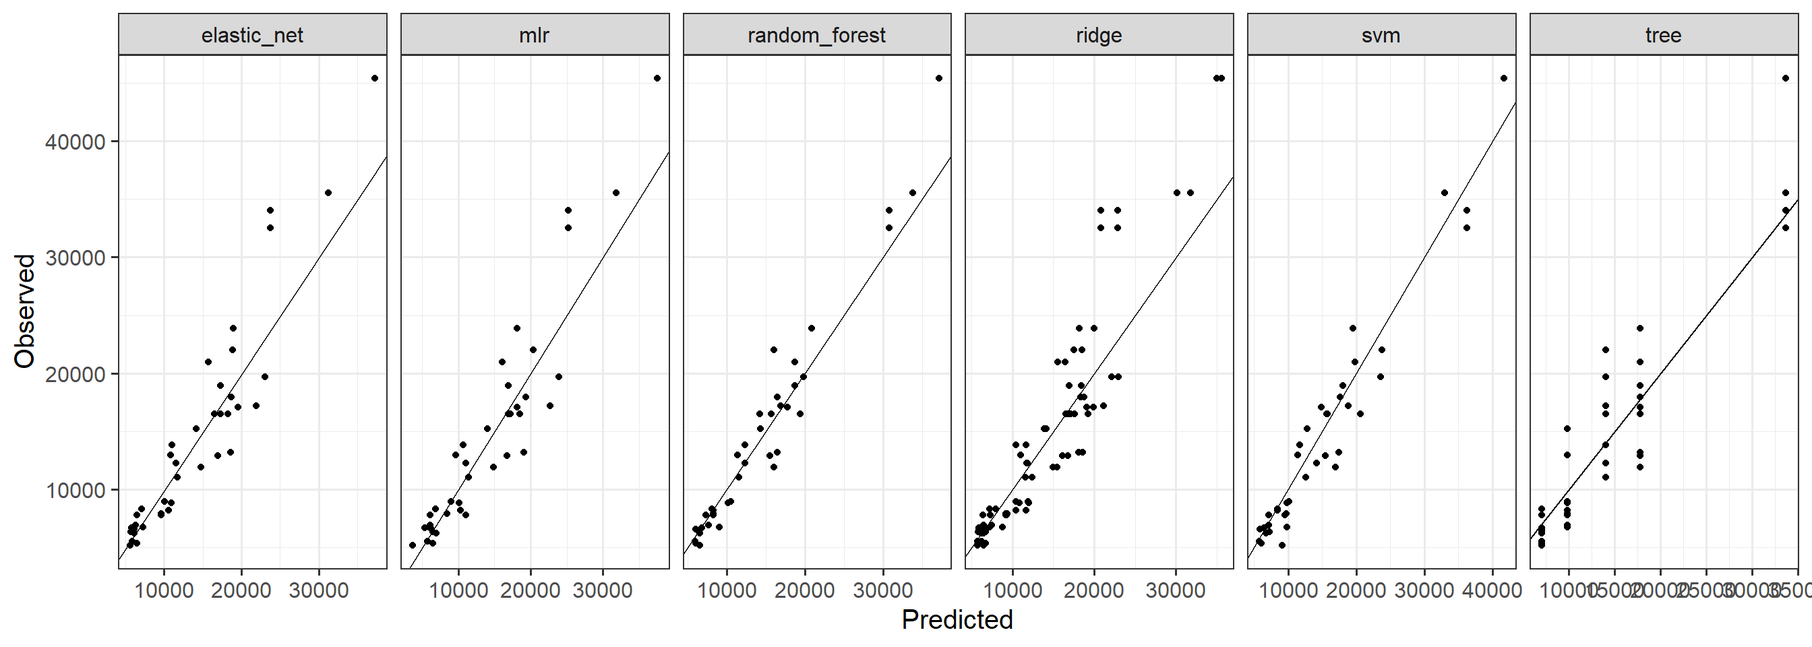
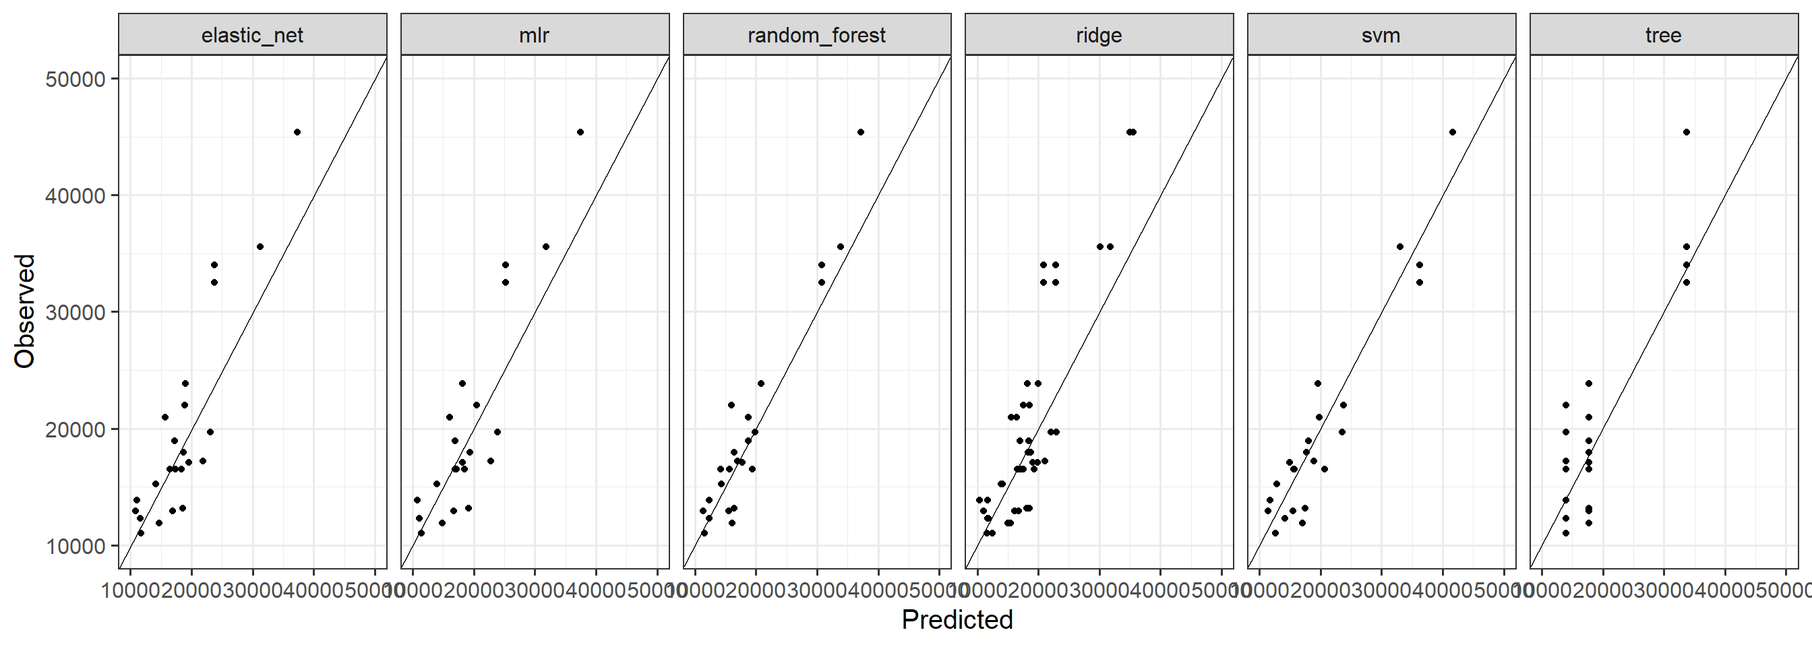
Updates

diff --git a/docs/portfolio.html b/docs/portfolio.html
@@ -195,7 +195,7 @@ window.Quarto = {
 <!-- margin-sidebar -->
     <div id="quarto-margin-sidebar" class="sidebar margin-sidebar">
         
-    <h5 class="quarto-listing-category-title">Categories</h5><div class="quarto-listing-category category-default"><div class="category" data-category="">All <span class="quarto-category-count">(21)</span></div><div class="category" data-category="QUk=">AI <span class="quarto-category-count">(4)</span></div><div class="category" data-category="Ug==">R <span class="quarto-category-count">(16)</span></div><div class="category" data-category="YW5hbHlzaXM=">analysis <span class="quarto-category-count">(20)</span></div><div class="category" data-category="aW50ZXJ2aWV3X3ByZXA=">interview_prep <span class="quarto-category-count">(1)</span></div><div class="category" data-category="cHl0aG9u">python <span class="quarto-category-count">(5)</span></div></div></div>
+    <h5 class="quarto-listing-category-title">Categories</h5><div class="quarto-listing-category category-default"><div class="category" data-category="">All <span class="quarto-category-count">(20)</span></div><div class="category" data-category="QUk=">AI <span class="quarto-category-count">(4)</span></div><div class="category" data-category="Ug==">R <span class="quarto-category-count">(15)</span></div><div class="category" data-category="YW5hbHlzaXM=">analysis <span class="quarto-category-count">(19)</span></div><div class="category" data-category="aW50ZXJ2aWV3X3ByZXA=">interview_prep <span class="quarto-category-count">(1)</span></div><div class="category" data-category="cHl0aG9u">python <span class="quarto-category-count">(5)</span></div></div></div>
 <!-- main -->
 <main class="content column-page-left" id="quarto-document-content">
 
@@ -360,7 +360,7 @@ May 23, 2025
 </div>
 </a>
 </div>
-<div class="g-col-1" data-index="4" data-categories="YW5hbHlzaXMlMkNS" data-listing-date-sort="1747285200000" data-listing-file-modified-sort="1755369981256" data-listing-date-modified-sort="NaN" data-listing-reading-time-sort="14" data-listing-word-count-sort="2793">
+<div class="g-col-1" data-index="4" data-categories="YW5hbHlzaXMlMkNS" data-listing-date-sort="1747285200000" data-listing-file-modified-sort="1755374962189" data-listing-date-modified-sort="NaN" data-listing-reading-time-sort="14" data-listing-word-count-sort="2793">
 <a href="./portfolio/cars/cars.html" class="quarto-grid-link">
 <div class="quarto-grid-item card h-100 card-left">
 <p class="card-img-top">
@@ -393,7 +393,7 @@ May 15, 2025
 </div>
 </a>
 </div>
-<div class="g-col-1" data-index="5" data-categories="YW5hbHlzaXMlMkNS" data-listing-date-sort="1747285200000" data-listing-file-modified-sort="1755370051172" data-listing-date-modified-sort="NaN" data-listing-reading-time-sort="13" data-listing-word-count-sort="2468">
+<div class="g-col-1" data-index="5" data-categories="YW5hbHlzaXMlMkNS" data-listing-date-sort="1747285200000" data-listing-file-modified-sort="1755376261888" data-listing-date-modified-sort="NaN" data-listing-reading-time-sort="13" data-listing-word-count-sort="2597">
 <a href="./portfolio/car_price/cars.html" class="quarto-grid-link">
 <div class="quarto-grid-item card h-100 card-left">
 <p class="card-img-top">
@@ -426,40 +426,7 @@ May 15, 2025
 </div>
 </a>
 </div>
-<div class="g-col-1" data-index="6" data-categories="YW5hbHlzaXMlMkNS" data-listing-date-sort="1747285200000" data-listing-file-modified-sort="1755370041582" data-listing-date-modified-sort="NaN" data-listing-reading-time-sort="13" data-listing-word-count-sort="2468">
-<a href="./portfolio/car_price/cars.html" class="quarto-grid-link">
-<div class="quarto-grid-item card h-100 card-left">
-<p class="card-img-top">
-<img loading="lazy" src="./portfolio/car_price/car.jpg" class="thumbnail-image card-img" style="height: 150px;">
-</p>
-<div class="card-body post-contents">
-<h5 class="no-anchor card-title listing-title">
-Predicting car price
-</h5>
-<div class="listing-categories">
-<div class="listing-category" onclick="window.quartoListingCategory('YW5hbHlzaXM='); return false;">
-analysis
-</div>
-<div class="listing-category" onclick="window.quartoListingCategory('Ug=='); return false;">
-R
-</div>
-</div>
-<div class="card-text listing-description">
-I found this dataset on UCI machine learning repository which gives the dataset regarding the car features along with price. The goal is to predict the car price indicated…
-</div>
-<div class="card-attribution card-text-small justify">
-<div class="listing-author">
-Aditya Ranade
-</div>
-<div class="listing-date">
-May 15, 2025
-</div>
-</div>
-</div>
-</div>
-</a>
-</div>
-<div class="g-col-1" data-index="7" data-categories="QUklMkNhbmFseXNpcyUyQ3B5dGhvbiUyQ1I=" data-listing-date-sort="1746594000000" data-listing-file-modified-sort="1754394202632" data-listing-date-modified-sort="NaN" data-listing-reading-time-sort="4" data-listing-word-count-sort="796">
+<div class="g-col-1" data-index="6" data-categories="QUklMkNhbmFseXNpcyUyQ3B5dGhvbiUyQ1I=" data-listing-date-sort="1746594000000" data-listing-file-modified-sort="1754394202632" data-listing-date-modified-sort="NaN" data-listing-reading-time-sort="4" data-listing-word-count-sort="796">
 <a href="./portfolio/gallstone/index.html" class="quarto-grid-link">
 <div class="quarto-grid-item card h-100 card-left">
 <p class="card-img-top">
@@ -498,7 +465,7 @@ May 7, 2025
 </div>
 </a>
 </div>
-<div class="g-col-1" data-index="8" data-categories="YW5hbHlzaXMlMkNS" data-listing-date-sort="1745902800000" data-listing-file-modified-sort="1753805386394" data-listing-date-modified-sort="NaN" data-listing-reading-time-sort="3" data-listing-word-count-sort="464">
+<div class="g-col-1" data-index="7" data-categories="YW5hbHlzaXMlMkNS" data-listing-date-sort="1745902800000" data-listing-file-modified-sort="1753805386394" data-listing-date-modified-sort="NaN" data-listing-reading-time-sort="3" data-listing-word-count-sort="464">
 <a href="./portfolio/penguins/penguins.html" class="quarto-grid-link">
 <div class="quarto-grid-item card h-100 card-left">
 <p class="card-img-top">
@@ -531,7 +498,7 @@ Apr 29, 2025
 </div>
 </a>
 </div>
-<div class="g-col-1" data-index="9" data-categories="aW50ZXJ2aWV3X3ByZXA=" data-listing-date-sort="1745384400000" data-listing-file-modified-sort="1752959990859" data-listing-date-modified-sort="NaN" data-listing-reading-time-sort="6" data-listing-word-count-sort="1095">
+<div class="g-col-1" data-index="8" data-categories="aW50ZXJ2aWV3X3ByZXA=" data-listing-date-sort="1745384400000" data-listing-file-modified-sort="1752959990859" data-listing-date-modified-sort="NaN" data-listing-reading-time-sort="6" data-listing-word-count-sort="1095">
 <a href="./portfolio/interview/index.html" class="quarto-grid-link">
 <div class="quarto-grid-item card h-100 card-left">
 <p class="card-img-top">
@@ -561,7 +528,7 @@ Apr 23, 2025
 </div>
 </a>
 </div>
-<div class="g-col-1" data-index="10" data-categories="YW5hbHlzaXMlMkNS" data-listing-date-sort="1745038800000" data-listing-file-modified-sort="1754233569120" data-listing-date-modified-sort="NaN" data-listing-reading-time-sort="3" data-listing-word-count-sort="535">
+<div class="g-col-1" data-index="9" data-categories="YW5hbHlzaXMlMkNS" data-listing-date-sort="1745038800000" data-listing-file-modified-sort="1754233569120" data-listing-date-modified-sort="NaN" data-listing-reading-time-sort="3" data-listing-word-count-sort="535">
 <a href="./portfolio/room_occupancy/index.html" class="quarto-grid-link">
 <div class="quarto-grid-item card h-100 card-left">
 <p class="card-img-top">
@@ -594,7 +561,7 @@ Apr 19, 2025
 </div>
 </a>
 </div>
-<div class="g-col-1" data-index="11" data-categories="QUklMkNhbmFseXNpcyUyQ1I=" data-listing-date-sort="1744347600000" data-listing-file-modified-sort="1754271086414" data-listing-date-modified-sort="NaN" data-listing-reading-time-sort="9" data-listing-word-count-sort="1639">
+<div class="g-col-1" data-index="10" data-categories="QUklMkNhbmFseXNpcyUyQ1I=" data-listing-date-sort="1744347600000" data-listing-file-modified-sort="1754271086414" data-listing-date-modified-sort="NaN" data-listing-reading-time-sort="9" data-listing-word-count-sort="1639">
 <a href="./portfolio/breast_cancer/breast_cancer.html" class="quarto-grid-link">
 <div class="quarto-grid-item card h-100 card-left">
 <p class="card-img-top">
@@ -630,7 +597,7 @@ Apr 11, 2025
 </div>
 </a>
 </div>
-<div class="g-col-1" data-index="12" data-categories="YW5hbHlzaXMlMkNS" data-listing-date-sort="1741928400000" data-listing-file-modified-sort="1753191163485" data-listing-date-modified-sort="NaN" data-listing-reading-time-sort="7" data-listing-word-count-sort="1218">
+<div class="g-col-1" data-index="11" data-categories="YW5hbHlzaXMlMkNS" data-listing-date-sort="1741928400000" data-listing-file-modified-sort="1753191163485" data-listing-date-modified-sort="NaN" data-listing-reading-time-sort="7" data-listing-word-count-sort="1218">
 <a href="./portfolio/credit_approval/index.html" class="quarto-grid-link">
 <div class="quarto-grid-item card h-100 card-left">
 <p class="card-img-top">
@@ -663,7 +630,7 @@ Mar 14, 2025
 </div>
 </a>
 </div>
-<div class="g-col-1" data-index="13" data-categories="YW5hbHlzaXMlMkNS" data-listing-date-sort="1740981600000" data-listing-file-modified-sort="1755353608933" data-listing-date-modified-sort="NaN" data-listing-reading-time-sort="8" data-listing-word-count-sort="1452">
+<div class="g-col-1" data-index="12" data-categories="YW5hbHlzaXMlMkNS" data-listing-date-sort="1740981600000" data-listing-file-modified-sort="1755353608933" data-listing-date-modified-sort="NaN" data-listing-reading-time-sort="8" data-listing-word-count-sort="1452">
 <a href="./portfolio/house_price/index.html" class="quarto-grid-link">
 <div class="quarto-grid-item card h-100 card-left">
 <p class="card-img-top">
@@ -696,7 +663,7 @@ Mar 3, 2025
 </div>
 </a>
 </div>
-<div class="g-col-1" data-index="14" data-categories="YW5hbHlzaXMlMkNweXRob24=" data-listing-date-sort="1740290400000" data-listing-file-modified-sort="1748226634507" data-listing-date-modified-sort="NaN" data-listing-reading-time-sort="8" data-listing-word-count-sort="1482">
+<div class="g-col-1" data-index="13" data-categories="YW5hbHlzaXMlMkNweXRob24=" data-listing-date-sort="1740290400000" data-listing-file-modified-sort="1748226634507" data-listing-date-modified-sort="NaN" data-listing-reading-time-sort="8" data-listing-word-count-sort="1482">
 <a href="./portfolio/cereals_ratings/index.html" class="quarto-grid-link">
 <div class="quarto-grid-item card h-100 card-left">
 <p class="card-img-top">
@@ -729,7 +696,7 @@ Feb 23, 2025
 </div>
 </a>
 </div>
-<div class="g-col-1" data-index="15" data-categories="QUklMkNhbmFseXNpcyUyQ3B5dGhvbg==" data-listing-date-sort="1739426400000" data-listing-file-modified-sort="1754271101863" data-listing-date-modified-sort="NaN" data-listing-reading-time-sort="8" data-listing-word-count-sort="1410">
+<div class="g-col-1" data-index="14" data-categories="QUklMkNhbmFseXNpcyUyQ3B5dGhvbg==" data-listing-date-sort="1739426400000" data-listing-file-modified-sort="1754271101863" data-listing-date-modified-sort="NaN" data-listing-reading-time-sort="8" data-listing-word-count-sort="1410">
 <a href="./portfolio/cereals/index.html" class="quarto-grid-link">
 <div class="quarto-grid-item card h-100 card-left">
 <p class="card-img-top">
@@ -765,7 +732,7 @@ Feb 13, 2025
 </div>
 </a>
 </div>
-<div class="g-col-1" data-index="16" data-categories="YW5hbHlzaXMlMkNweXRob24=" data-listing-date-sort="1737612000000" data-listing-file-modified-sort="1747941360074" data-listing-date-modified-sort="NaN" data-listing-reading-time-sort="4" data-listing-word-count-sort="659">
+<div class="g-col-1" data-index="15" data-categories="YW5hbHlzaXMlMkNweXRob24=" data-listing-date-sort="1737612000000" data-listing-file-modified-sort="1747941360074" data-listing-date-modified-sort="NaN" data-listing-reading-time-sort="4" data-listing-word-count-sort="659">
 <a href="./portfolio/starbucks_food_python/index.html" class="quarto-grid-link">
 <div class="quarto-grid-item card h-100 card-left">
 <p class="card-img-top">
@@ -798,7 +765,7 @@ Jan 23, 2025
 </div>
 </a>
 </div>
-<div class="g-col-1" data-index="17" data-categories="YW5hbHlzaXMlMkNS" data-listing-date-sort="1736748000000" data-listing-file-modified-sort="1747941445548" data-listing-date-modified-sort="NaN" data-listing-reading-time-sort="5" data-listing-word-count-sort="971">
+<div class="g-col-1" data-index="16" data-categories="YW5hbHlzaXMlMkNS" data-listing-date-sort="1736748000000" data-listing-file-modified-sort="1747941445548" data-listing-date-modified-sort="NaN" data-listing-reading-time-sort="5" data-listing-word-count-sort="971">
 <a href="./portfolio/starbucks/index.html" class="quarto-grid-link">
 <div class="quarto-grid-item card h-100 card-left">
 <p class="card-img-top">
@@ -831,11 +798,11 @@ Jan 13, 2025
 </div>
 </a>
 </div>
-<div class="g-col-1" data-index="18" data-categories="YW5hbHlzaXMlMkNS" data-listing-date-sort="1709272800000" data-listing-file-modified-sort="1746840982006" data-listing-date-modified-sort="NaN" data-listing-reading-time-sort="5" data-listing-word-count-sort="899">
+<div class="g-col-1" data-index="17" data-categories="YW5hbHlzaXMlMkNS" data-listing-date-sort="1709272800000" data-listing-file-modified-sort="1746840982006" data-listing-date-modified-sort="NaN" data-listing-reading-time-sort="5" data-listing-word-count-sort="899">
 <a href="./portfolio/cherry_blossom_prediction/index.html" class="quarto-grid-link">
 <div class="quarto-grid-item card h-100 card-left">
 <p class="card-img-top">
-<img loading="lazy" data-src="./portfolio/cherry_blossom_prediction/cherry_blossom.jpg" class="thumbnail-image card-img" style="height: 150px;">
+<img loading="lazy" src="./portfolio/cherry_blossom_prediction/cherry_blossom.jpg" class="thumbnail-image card-img" style="height: 150px;">
 </p>
 <div class="card-body post-contents">
 <h5 class="no-anchor card-title listing-title">
@@ -864,7 +831,7 @@ Mar 1, 2024
 </div>
 </a>
 </div>
-<div class="g-col-1" data-index="19" data-categories="YW5hbHlzaXMlMkNSJTJDcHl0aG9u" data-listing-date-sort="1668060000000" data-listing-file-modified-sort="1748915504895" data-listing-date-modified-sort="NaN" data-listing-reading-time-sort="6" data-listing-word-count-sort="1080">
+<div class="g-col-1" data-index="18" data-categories="YW5hbHlzaXMlMkNSJTJDcHl0aG9u" data-listing-date-sort="1668060000000" data-listing-file-modified-sort="1748915504895" data-listing-date-modified-sort="NaN" data-listing-reading-time-sort="6" data-listing-word-count-sort="1080">
 <a href="./portfolio/ipl_best_team/index.html" class="quarto-grid-link">
 <div class="quarto-grid-item card h-100 card-left">
 <p class="card-img-top">
@@ -900,7 +867,7 @@ Nov 10, 2022
 </div>
 </a>
 </div>
-<div class="g-col-1" data-index="20" data-categories="YW5hbHlzaXM=" data-listing-date-sort="1667106000000" data-listing-file-modified-sort="1710368970678" data-listing-date-modified-sort="NaN" data-listing-reading-time-sort="6" data-listing-word-count-sort="1148">
+<div class="g-col-1" data-index="19" data-categories="YW5hbHlzaXM=" data-listing-date-sort="1667106000000" data-listing-file-modified-sort="1710368970678" data-listing-date-modified-sort="NaN" data-listing-reading-time-sort="6" data-listing-word-count-sort="1148">
 <a href="./portfolio/fab4/index.html" class="quarto-grid-link">
 <div class="quarto-grid-item card h-100 card-left">
 <p class="card-img-top">

diff --git a/docs/portfolio/car_price/cars.html b/docs/portfolio/car_price/cars.html
@@ -797,10 +797,11 @@ n= 156
 <span id="cb34-5"><a href="#cb34-5" aria-hidden="true" tabindex="-1"></a></span>
 <span id="cb34-6"><a href="#cb34-6" aria-hidden="true" tabindex="-1"></a><span class="co"># Create a observed vs. predicted plot combined for all the models</span></span>
 <span id="cb34-7"><a href="#cb34-7" aria-hidden="true" tabindex="-1"></a><span class="fu">ggplot</span>(df_pred,<span class="fu">aes</span>(predicted,observed))<span class="sc">+</span><span class="fu">geom_point</span>()<span class="sc">+</span></span>
-<span id="cb34-8"><a href="#cb34-8" aria-hidden="true" tabindex="-1"></a>  <span class="fu">labs</span>(<span class="at">y =</span> <span class="st">"Observed"</span>, <span class="at">x=</span><span class="st">"Predicted"</span>)<span class="sc">+</span></span>
-<span id="cb34-9"><a href="#cb34-9" aria-hidden="true" tabindex="-1"></a> <span class="fu">facet_grid</span>(<span class="sc">~</span>model, <span class="at">scales=</span><span class="st">"free"</span>)<span class="sc">+</span></span>
-<span id="cb34-10"><a href="#cb34-10" aria-hidden="true" tabindex="-1"></a>  <span class="fu">geom_abline</span>()<span class="sc">+</span></span>
-<span id="cb34-11"><a href="#cb34-11" aria-hidden="true" tabindex="-1"></a>  <span class="fu">theme_bw</span>(<span class="at">base_size =</span> <span class="dv">15</span>)</span></code><button title="Copy to Clipboard" class="code-copy-button"><i class="bi"></i></button></pre></div>
+<span id="cb34-8"><a href="#cb34-8" aria-hidden="true" tabindex="-1"></a>  <span class="fu">lims</span>(<span class="at">x =</span> <span class="fu">c</span>(<span class="dv">10000</span>,<span class="dv">50000</span>) , <span class="at">y =</span> <span class="fu">c</span>(<span class="dv">10000</span>,<span class="dv">50000</span>))<span class="sc">+</span></span>
+<span id="cb34-9"><a href="#cb34-9" aria-hidden="true" tabindex="-1"></a>  <span class="fu">labs</span>(<span class="at">y =</span> <span class="st">"Observed"</span>, <span class="at">x=</span><span class="st">"Predicted"</span>)<span class="sc">+</span></span>
+<span id="cb34-10"><a href="#cb34-10" aria-hidden="true" tabindex="-1"></a>  <span class="fu">facet_grid</span>(<span class="sc">~</span>model, <span class="at">scales=</span><span class="st">"free"</span>)<span class="sc">+</span></span>
+<span id="cb34-11"><a href="#cb34-11" aria-hidden="true" tabindex="-1"></a>  <span class="fu">geom_abline</span>()<span class="sc">+</span></span>
+<span id="cb34-12"><a href="#cb34-12" aria-hidden="true" tabindex="-1"></a>  <span class="fu">theme_bw</span>(<span class="at">base_size =</span> <span class="dv">15</span>)</span></code><button title="Copy to Clipboard" class="code-copy-button"><i class="bi"></i></button></pre></div>
 <div class="cell-output-display">
 <div>
 <figure class="figure">
@@ -818,7 +819,7 @@ n= 156
 <span id="cb35-8"><a href="#cb35-8" aria-hidden="true" tabindex="-1"></a>                                  mae_tree, mae_rf, mae_svm))</span>
 <span id="cb35-9"><a href="#cb35-9" aria-hidden="true" tabindex="-1"></a></span>
 <span id="cb35-10"><a href="#cb35-10" aria-hidden="true" tabindex="-1"></a><span class="co"># Print evaluation metrics</span></span>
-<span id="cb35-11"><a href="#cb35-11" aria-hidden="true" tabindex="-1"></a><span class="fu">kable</span>(metrics_all, <span class="at">digits =</span> <span class="dv">2</span>, <span class="at">caption =</span> <span class="st">"Model Performance Metrics"</span>)</span></code><button title="Copy to Clipboard" class="code-copy-button"><i class="bi"></i></button></pre></div>
+<span id="cb35-11"><a href="#cb35-11" aria-hidden="true" tabindex="-1"></a><span class="fu">kable</span>(metrics_all, <span class="at">digits =</span> <span class="dv">0</span>, <span class="at">caption =</span> <span class="st">"Model Performance Metrics"</span>)</span></code><button title="Copy to Clipboard" class="code-copy-button"><i class="bi"></i></button></pre></div>
 <div class="cell-output-display">
 <table class="caption-top table table-sm table-striped small">
 <caption>Model Performance Metrics</caption>
@@ -832,68 +833,80 @@ n= 156
 <tbody>
 <tr class="odd">
 <td style="text-align: left;">linear_model</td>
-<td style="text-align: right;">3351.80</td>
-<td style="text-align: right;">2474.66</td>
+<td style="text-align: right;">3352</td>
+<td style="text-align: right;">2475</td>
 </tr>
 <tr class="even">
 <td style="text-align: left;">lasso</td>
-<td style="text-align: right;">3733.63</td>
-<td style="text-align: right;">2543.32</td>
+<td style="text-align: right;">3734</td>
+<td style="text-align: right;">2543</td>
 </tr>
 <tr class="odd">
 <td style="text-align: left;">ridge</td>
-<td style="text-align: right;">4026.63</td>
-<td style="text-align: right;">2693.29</td>
+<td style="text-align: right;">4027</td>
+<td style="text-align: right;">2693</td>
 </tr>
 <tr class="even">
 <td style="text-align: left;">elastic_net</td>
-<td style="text-align: right;">3460.68</td>
-<td style="text-align: right;">2477.20</td>
+<td style="text-align: right;">3461</td>
+<td style="text-align: right;">2477</td>
 </tr>
 <tr class="odd">
 <td style="text-align: left;">tree</td>
-<td style="text-align: right;">3501.90</td>
-<td style="text-align: right;">2555.06</td>
+<td style="text-align: right;">3502</td>
+<td style="text-align: right;">2555</td>
 </tr>
 <tr class="even">
 <td style="text-align: left;">random_forest</td>
-<td style="text-align: right;">2290.88</td>
-<td style="text-align: right;">1552.31</td>
+<td style="text-align: right;">2291</td>
+<td style="text-align: right;">1552</td>
 </tr>
 <tr class="odd">
 <td style="text-align: left;">svm</td>
-<td style="text-align: right;">2313.45</td>
-<td style="text-align: right;">1863.03</td>
+<td style="text-align: right;">2313</td>
+<td style="text-align: right;">1863</td>
 </tr>
 </tbody>
 </table>
 </div>
 </div>
 <div class="cell">
-<div class="sourceCode cell-code" id="cb36"><pre class="sourceCode r code-with-copy"><code class="sourceCode r"><span id="cb36-1"><a href="#cb36-1" aria-hidden="true" tabindex="-1"></a><span class="co"># To plot RMSE and MAE on the same plot</span></span>
-<span id="cb36-2"><a href="#cb36-2" aria-hidden="true" tabindex="-1"></a>metrics_long <span class="ot">&lt;-</span> <span class="fu">melt</span>(metrics_all, <span class="at">id.vars =</span> <span class="st">"Model"</span>,</span>
-<span id="cb36-3"><a href="#cb36-3" aria-hidden="true" tabindex="-1"></a>                     <span class="at">variable.name =</span> <span class="st">"Metric"</span>,</span>
-<span id="cb36-4"><a href="#cb36-4" aria-hidden="true" tabindex="-1"></a>                     <span class="at">value.name =</span> <span class="st">"Value"</span>)</span>
-<span id="cb36-5"><a href="#cb36-5" aria-hidden="true" tabindex="-1"></a></span>
-<span id="cb36-6"><a href="#cb36-6" aria-hidden="true" tabindex="-1"></a><span class="fu">ggplot</span>(metrics_long, <span class="fu">aes</span>(<span class="at">x =</span> Model, <span class="at">y =</span> Value, <span class="at">fill =</span> Metric)) <span class="sc">+</span></span>
-<span id="cb36-7"><a href="#cb36-7" aria-hidden="true" tabindex="-1"></a>  <span class="fu">geom_col</span>(<span class="at">position =</span> <span class="fu">position_dodge</span>(<span class="at">width =</span> <span class="fl">0.8</span>)) <span class="sc">+</span></span>
-<span id="cb36-8"><a href="#cb36-8" aria-hidden="true" tabindex="-1"></a>  <span class="fu">geom_text</span>(<span class="fu">aes</span>(<span class="at">label =</span> <span class="fu">round</span>(Value, <span class="dv">2</span>)),</span>
-<span id="cb36-9"><a href="#cb36-9" aria-hidden="true" tabindex="-1"></a>            <span class="at">position =</span> <span class="fu">position_dodge</span>(<span class="at">width =</span> <span class="fl">0.8</span>),</span>
-<span id="cb36-10"><a href="#cb36-10" aria-hidden="true" tabindex="-1"></a>            <span class="at">vjust =</span> <span class="sc">-</span><span class="fl">0.3</span>, <span class="at">size =</span> <span class="dv">3</span>) <span class="sc">+</span></span>
-<span id="cb36-11"><a href="#cb36-11" aria-hidden="true" tabindex="-1"></a>  <span class="fu">labs</span>(<span class="at">title =</span> <span class="st">"Model Performance Comparison"</span>,</span>
-<span id="cb36-12"><a href="#cb36-12" aria-hidden="true" tabindex="-1"></a>       <span class="at">y =</span> <span class="st">"Error Value"</span>, <span class="at">x =</span> <span class="st">"Model"</span>) <span class="sc">+</span></span>
-<span id="cb36-13"><a href="#cb36-13" aria-hidden="true" tabindex="-1"></a>  <span class="fu">theme_bw</span>(<span class="at">base_size =</span> <span class="dv">10</span>) <span class="sc">+</span></span>
-<span id="cb36-14"><a href="#cb36-14" aria-hidden="true" tabindex="-1"></a>  <span class="fu">theme</span>(<span class="at">plot.title =</span> <span class="fu">element_text</span>(<span class="at">face =</span> <span class="st">"bold"</span>, <span class="at">hjust =</span> <span class="fl">0.5</span>))</span></code><button title="Copy to Clipboard" class="code-copy-button"><i class="bi"></i></button></pre></div>
+<div class="sourceCode cell-code" id="cb36"><pre class="sourceCode r code-with-copy"><code class="sourceCode r"><span id="cb36-1"><a href="#cb36-1" aria-hidden="true" tabindex="-1"></a>metrics_long <span class="ot">&lt;-</span> <span class="fu">melt</span>(metrics_all, <span class="at">id.vars =</span> <span class="st">"Model"</span>,</span>
+<span id="cb36-2"><a href="#cb36-2" aria-hidden="true" tabindex="-1"></a>                     <span class="at">variable.name =</span> <span class="st">"Metric"</span>,</span>
+<span id="cb36-3"><a href="#cb36-3" aria-hidden="true" tabindex="-1"></a>                     <span class="at">value.name =</span> <span class="st">"Value"</span>)</span>
+<span id="cb36-4"><a href="#cb36-4" aria-hidden="true" tabindex="-1"></a></span>
+<span id="cb36-5"><a href="#cb36-5" aria-hidden="true" tabindex="-1"></a><span class="co"># To plot RMSE and MAE side by side</span></span>
+<span id="cb36-6"><a href="#cb36-6" aria-hidden="true" tabindex="-1"></a><span class="fu">ggplot</span>(metrics_long, <span class="fu">aes</span>(<span class="at">x =</span> Model, <span class="at">y =</span> Value, <span class="at">fill =</span> Model)) <span class="sc">+</span></span>
+<span id="cb36-7"><a href="#cb36-7" aria-hidden="true" tabindex="-1"></a>  <span class="fu">geom_col</span>(<span class="at">show.legend =</span> <span class="cn">FALSE</span>) <span class="sc">+</span></span>
+<span id="cb36-8"><a href="#cb36-8" aria-hidden="true" tabindex="-1"></a>  <span class="fu">geom_text</span>(<span class="fu">aes</span>(<span class="at">label =</span> <span class="fu">round</span>(Value)), </span>
+<span id="cb36-9"><a href="#cb36-9" aria-hidden="true" tabindex="-1"></a>            <span class="at">position =</span> <span class="fu">position_dodge</span>(<span class="at">width =</span> <span class="fl">0.5</span>),</span>
+<span id="cb36-10"><a href="#cb36-10" aria-hidden="true" tabindex="-1"></a>            <span class="at">hjust =</span> <span class="fl">1.25</span>, <span class="at">size =</span> <span class="dv">3</span>) <span class="sc">+</span></span>
+<span id="cb36-11"><a href="#cb36-11" aria-hidden="true" tabindex="-1"></a>  <span class="fu">coord_flip</span>(<span class="at">clip =</span> <span class="st">"off"</span>) <span class="sc">+</span>  <span class="co"># horizontal bars, no clipping of text</span></span>
+<span id="cb36-12"><a href="#cb36-12" aria-hidden="true" tabindex="-1"></a>  <span class="fu">facet_grid2</span>(<span class="sc">~</span>Metric, <span class="at">scales=</span><span class="st">"free"</span>)<span class="sc">+</span></span>
+<span id="cb36-13"><a href="#cb36-13" aria-hidden="true" tabindex="-1"></a>  <span class="fu">labs</span>(<span class="at">title =</span> <span class="st">"Model Performance Comparison"</span>, </span>
+<span id="cb36-14"><a href="#cb36-14" aria-hidden="true" tabindex="-1"></a>       <span class="at">y =</span> <span class="st">"Error Value"</span>, <span class="at">x =</span> <span class="st">"Model"</span>) <span class="sc">+</span></span>
+<span id="cb36-15"><a href="#cb36-15" aria-hidden="true" tabindex="-1"></a>  <span class="fu">theme_bw</span>(<span class="at">base_size =</span> <span class="dv">15</span>) <span class="sc">+</span></span>
+<span id="cb36-16"><a href="#cb36-16" aria-hidden="true" tabindex="-1"></a>  <span class="fu">theme</span>(<span class="at">plot.title =</span> <span class="fu">element_text</span>(<span class="at">face =</span> <span class="st">"bold"</span>, <span class="at">hjust =</span> <span class="fl">0.5</span>))</span></code><button title="Copy to Clipboard" class="code-copy-button"><i class="bi"></i></button></pre></div>
 <div class="cell-output-display">
 <div>
 <figure class="figure">
-<p><img src="cars_files/figure-html/metrics2-1.png" class="img-fluid figure-img" width="672"></p>
+<p><img src="cars_files/figure-html/metrics2-1.png" class="img-fluid figure-img" width="1344"></p>
 </figure>
 </div>
 </div>
+<div class="sourceCode cell-code" id="cb37"><pre class="sourceCode r code-with-copy"><code class="sourceCode r"><span id="cb37-1"><a href="#cb37-1" aria-hidden="true" tabindex="-1"></a><span class="co"># # To plot RMSE and MAE on the same plot</span></span>
+<span id="cb37-2"><a href="#cb37-2" aria-hidden="true" tabindex="-1"></a><span class="co"># ggplot(metrics_long, aes(x = Model, y = Value, fill = Metric)) +</span></span>
+<span id="cb37-3"><a href="#cb37-3" aria-hidden="true" tabindex="-1"></a><span class="co">#   geom_col(position = position_dodge(width = 0.8)) +</span></span>
+<span id="cb37-4"><a href="#cb37-4" aria-hidden="true" tabindex="-1"></a><span class="co">#   geom_text(aes(label = round(Value, 2)),</span></span>
+<span id="cb37-5"><a href="#cb37-5" aria-hidden="true" tabindex="-1"></a><span class="co">#             position = position_dodge(width = 0.8),</span></span>
+<span id="cb37-6"><a href="#cb37-6" aria-hidden="true" tabindex="-1"></a><span class="co">#             vjust = -0.3, size = 3) +</span></span>
+<span id="cb37-7"><a href="#cb37-7" aria-hidden="true" tabindex="-1"></a><span class="co">#   labs(title = "Model Performance Comparison",</span></span>
+<span id="cb37-8"><a href="#cb37-8" aria-hidden="true" tabindex="-1"></a><span class="co">#        y = "Error Value", x = "Model") +</span></span>
+<span id="cb37-9"><a href="#cb37-9" aria-hidden="true" tabindex="-1"></a><span class="co">#   theme_bw(base_size = 10) +</span></span>
+<span id="cb37-10"><a href="#cb37-10" aria-hidden="true" tabindex="-1"></a><span class="co">#   theme(plot.title = element_text(face = "bold", hjust = 0.5))</span></span></code><button title="Copy to Clipboard" class="code-copy-button"><i class="bi"></i></button></pre></div>
 </div>
 <div style="text-align: justify">
-<p>Based on the metrics, a tree model or a random forest model seems to be the better models.</p>
+<p>Based on the metrics, random forest model seems to be the best model.</p>
 </div>
 
 
